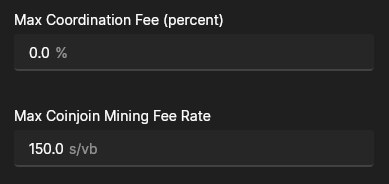
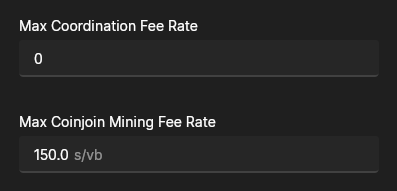
update coordinator configs

diff --git a/docs/using-wasabi/CoinJoin.md b/docs/using-wasabi/CoinJoin.md
@@ -71,7 +71,7 @@ This would make the participants pay a lot (unnecessarily).
 To prevent against such behavior the Wasabi client can configure the maximum mining fee rate and the maximum coordination fee it is willing to pay per round. 
 If one of these is higher than the set values, the client will not participate in the coinjoin.
 
-The default values are 0% coordination fee and maximum 150 sat/vByte mining fee rate.
+The default is a coordination fee rate of 0 and a maximum mining fee rate of 150 sat/vByte.
 
 ![Coinjoin Configurations](/SettingsCoinjoinConfigs.png "Coinjoin Configurations")
 
